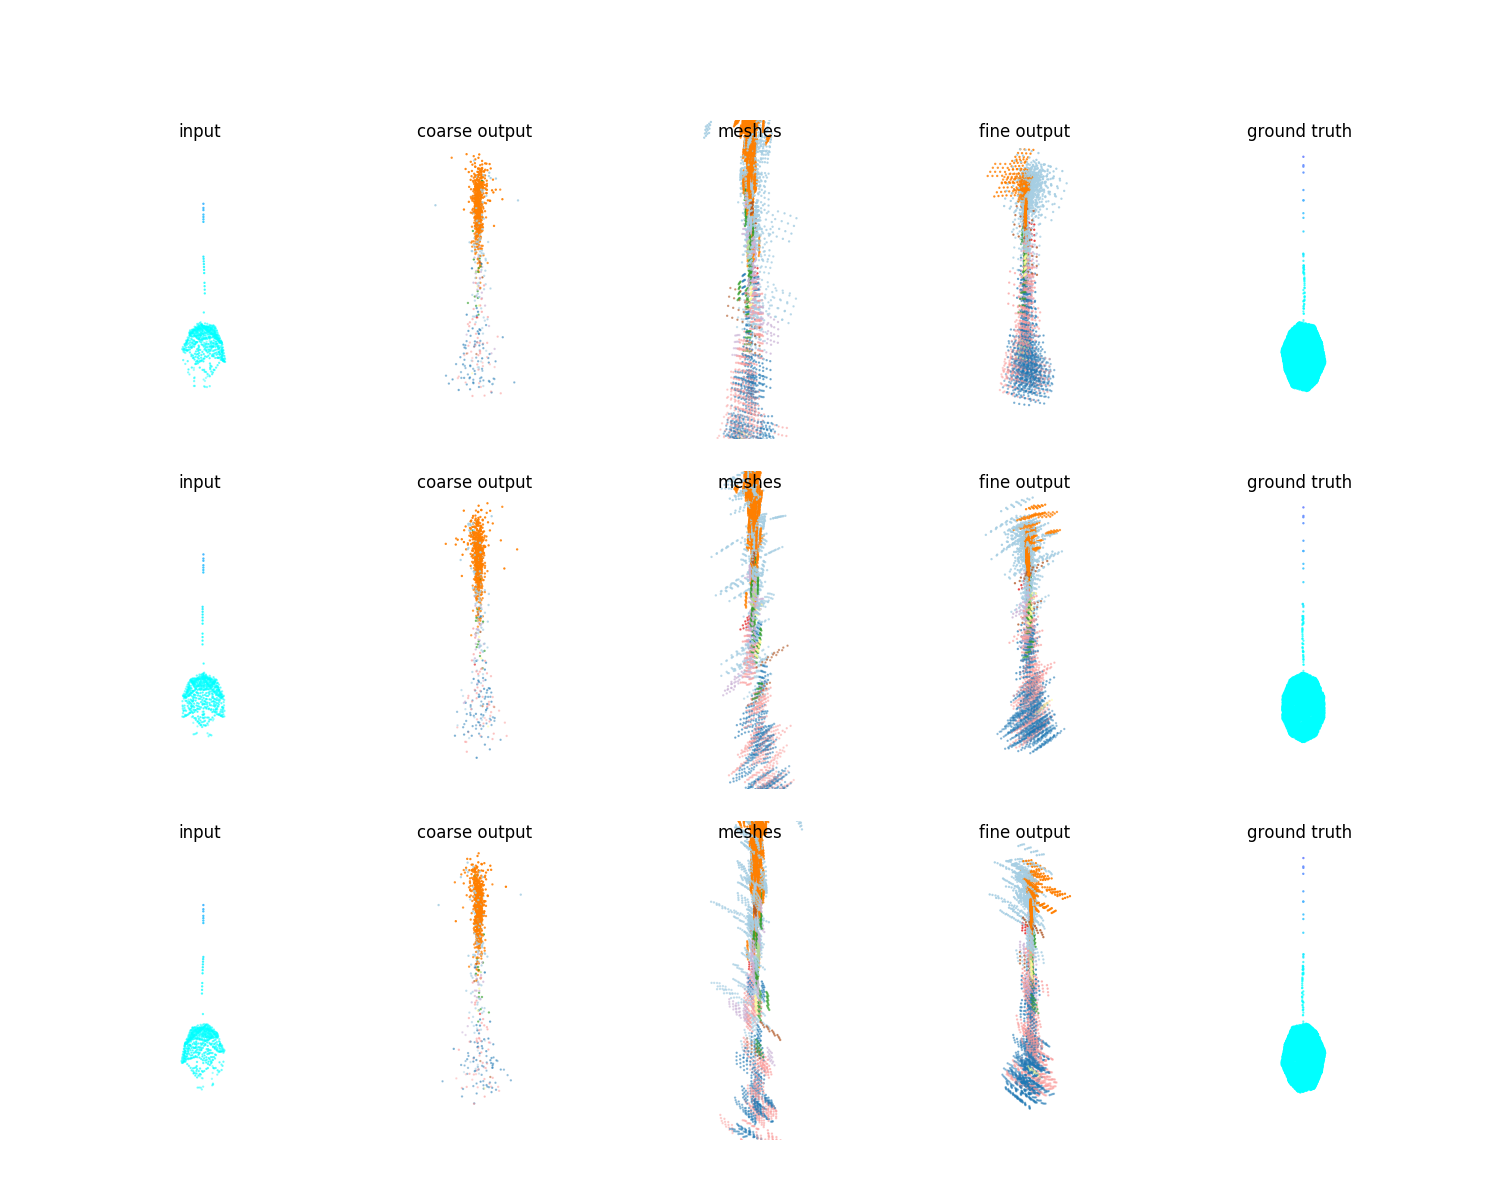
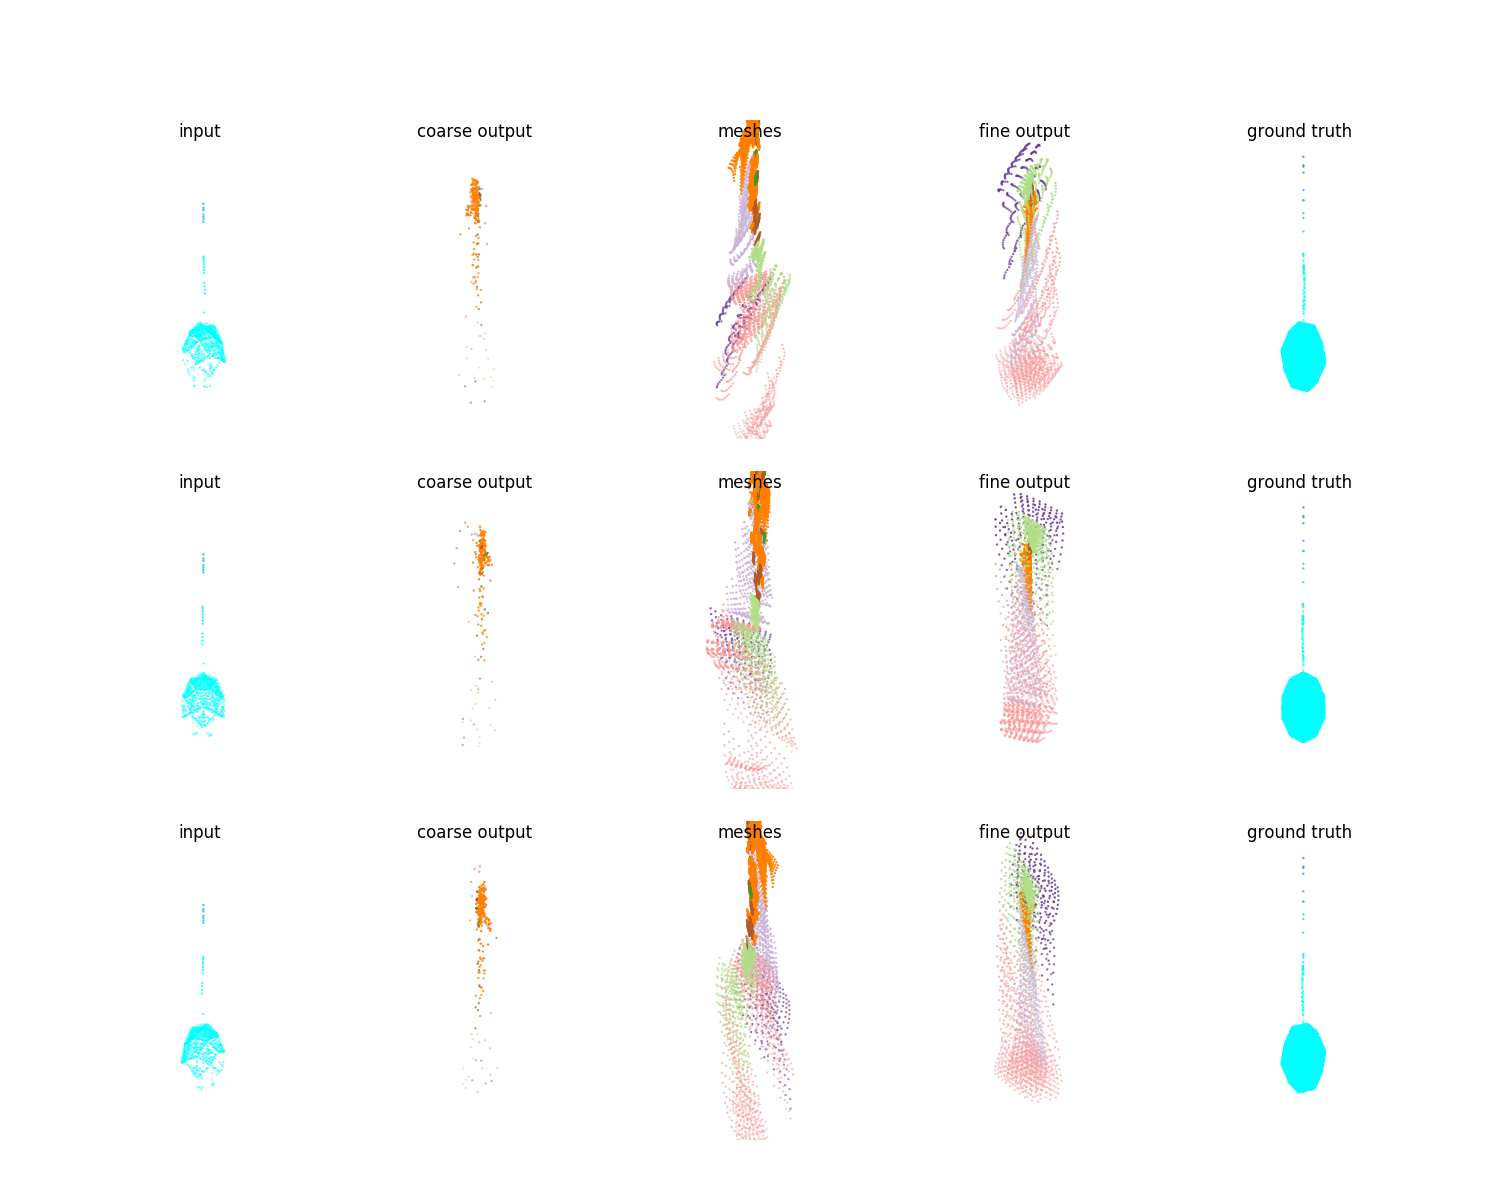
add plots

diff --git a/models/pcn_reg.py b/models/pcn_reg.py
@@ -7,8 +7,8 @@ from tf_util import *
 
 class Model:
     def __init__(self, inputs, npts, gt, alpha, num_channel):
-        self.num_coarse = 64
-        self.grid_size = 16
+        self.num_coarse = 256
+        self.grid_size = 8
         self.grid_scale = 0.05
         self.channels = num_channel
         self.num_fine = self.grid_size ** 2 * self.num_coarse
@@ -33,9 +33,18 @@ class Model:
     def create_decoder(self, features):
         # mask = tf.dtypes.cast(tf.sequence_mask([3+self.channels], 14), tf.float32)
         with tf.variable_scope('decoder', reuse=tf.AUTO_REUSE):
-            coarse = mlp(features, [1024, 1024, self.num_coarse*14])
-            coarse = tf.reshape(coarse, [-1, self.num_coarse, 14]) 
-            coarse = mlp_conv_act(coarse, [64, 16, 3]) # + center
+            coarse_unord = mlp(features, [1024, 1024, self.num_coarse*14])
+            coarse_unord = tf.reshape(coarse_unord, [-1, self.num_coarse, 14]) 
+            coarse = tf.zeros_like(coarse_unord)
+            for idx_r in range(3, 14):
+                idx_reg = tf.math.top_k(coarse_unord[:,:,idx_r], k=self.num_coarse).indices
+                coarse_ord = tf.gather(coarse_unord, indices=idx_reg, batch_dims=1)
+                coarse += mlp_conv_act(coarse_ord, [512, 512, 3]) # + center
+            """
+            idx_reg = tf.math.top_k(coarse[:,:,3], k=self.num_coarse).indices
+            coarse = tf.gather(coarse, indices=idx_reg, batch_dims=1)
+            coarse = mlp_conv_act(coarse, [512, 512, 3]) # + center
+            """
             # coarse *= mask
 
         with tf.variable_scope('folding', reuse=tf.AUTO_REUSE):

diff --git a/test_shapenet.py b/test_shapenet.py
@@ -115,10 +115,10 @@ def test(args):
             write_point_cloud(os.path.join(args.results_dir, 'output2', synset_id, '%s.ply' % model_id), pcd, write_ascii=True)
             #######
             os.makedirs(os.path.join(args.results_dir, 'regions', synset_id), exist_ok=True)
-            val_min = np.min(completion2[0][:, 3:])
-            val_max = np.max(completion2[0][:, 3:])
             for idx in range (3, 14):
-                pts_color = matplotlib.cm.Oranges((completion2[0][:, idx]) / (val_max))[:,0:3]
+                val_min = np.min(completion2[0][:, idx])
+                val_max = np.max(completion2[0][:, idx])
+                pts_color = matplotlib.cm.Purples((completion2[0][:, idx]-val_min) / (val_max-val_min))[:,0:3]
                 pcd.colors = Vector3dVector(pts_color)
                 write_point_cloud(os.path.join(args.results_dir, 'regions', synset_id, '%s_%s.ply' % (model_id, idx)), pcd, write_ascii=True)
             os.makedirs(os.path.join(args.results_dir, 'gt', synset_id), exist_ok=True)

diff --git a/tf_util.py b/tf_util.py
@@ -37,7 +37,7 @@ def mlp_conv_act(inputs, layer_dims, act_dim=11, bn=None, bn_params=None):
     for i, num_out_channel in enumerate(layer_dims[:-1]):
         inputs = tf.contrib.layers.conv1d(
             inputs, num_out_channel,
-            kernel_size=1,
+            kernel_size=12,
             normalizer_fn=bn,
             normalizer_params=bn_params,
             scope='conv_%d' % i)
